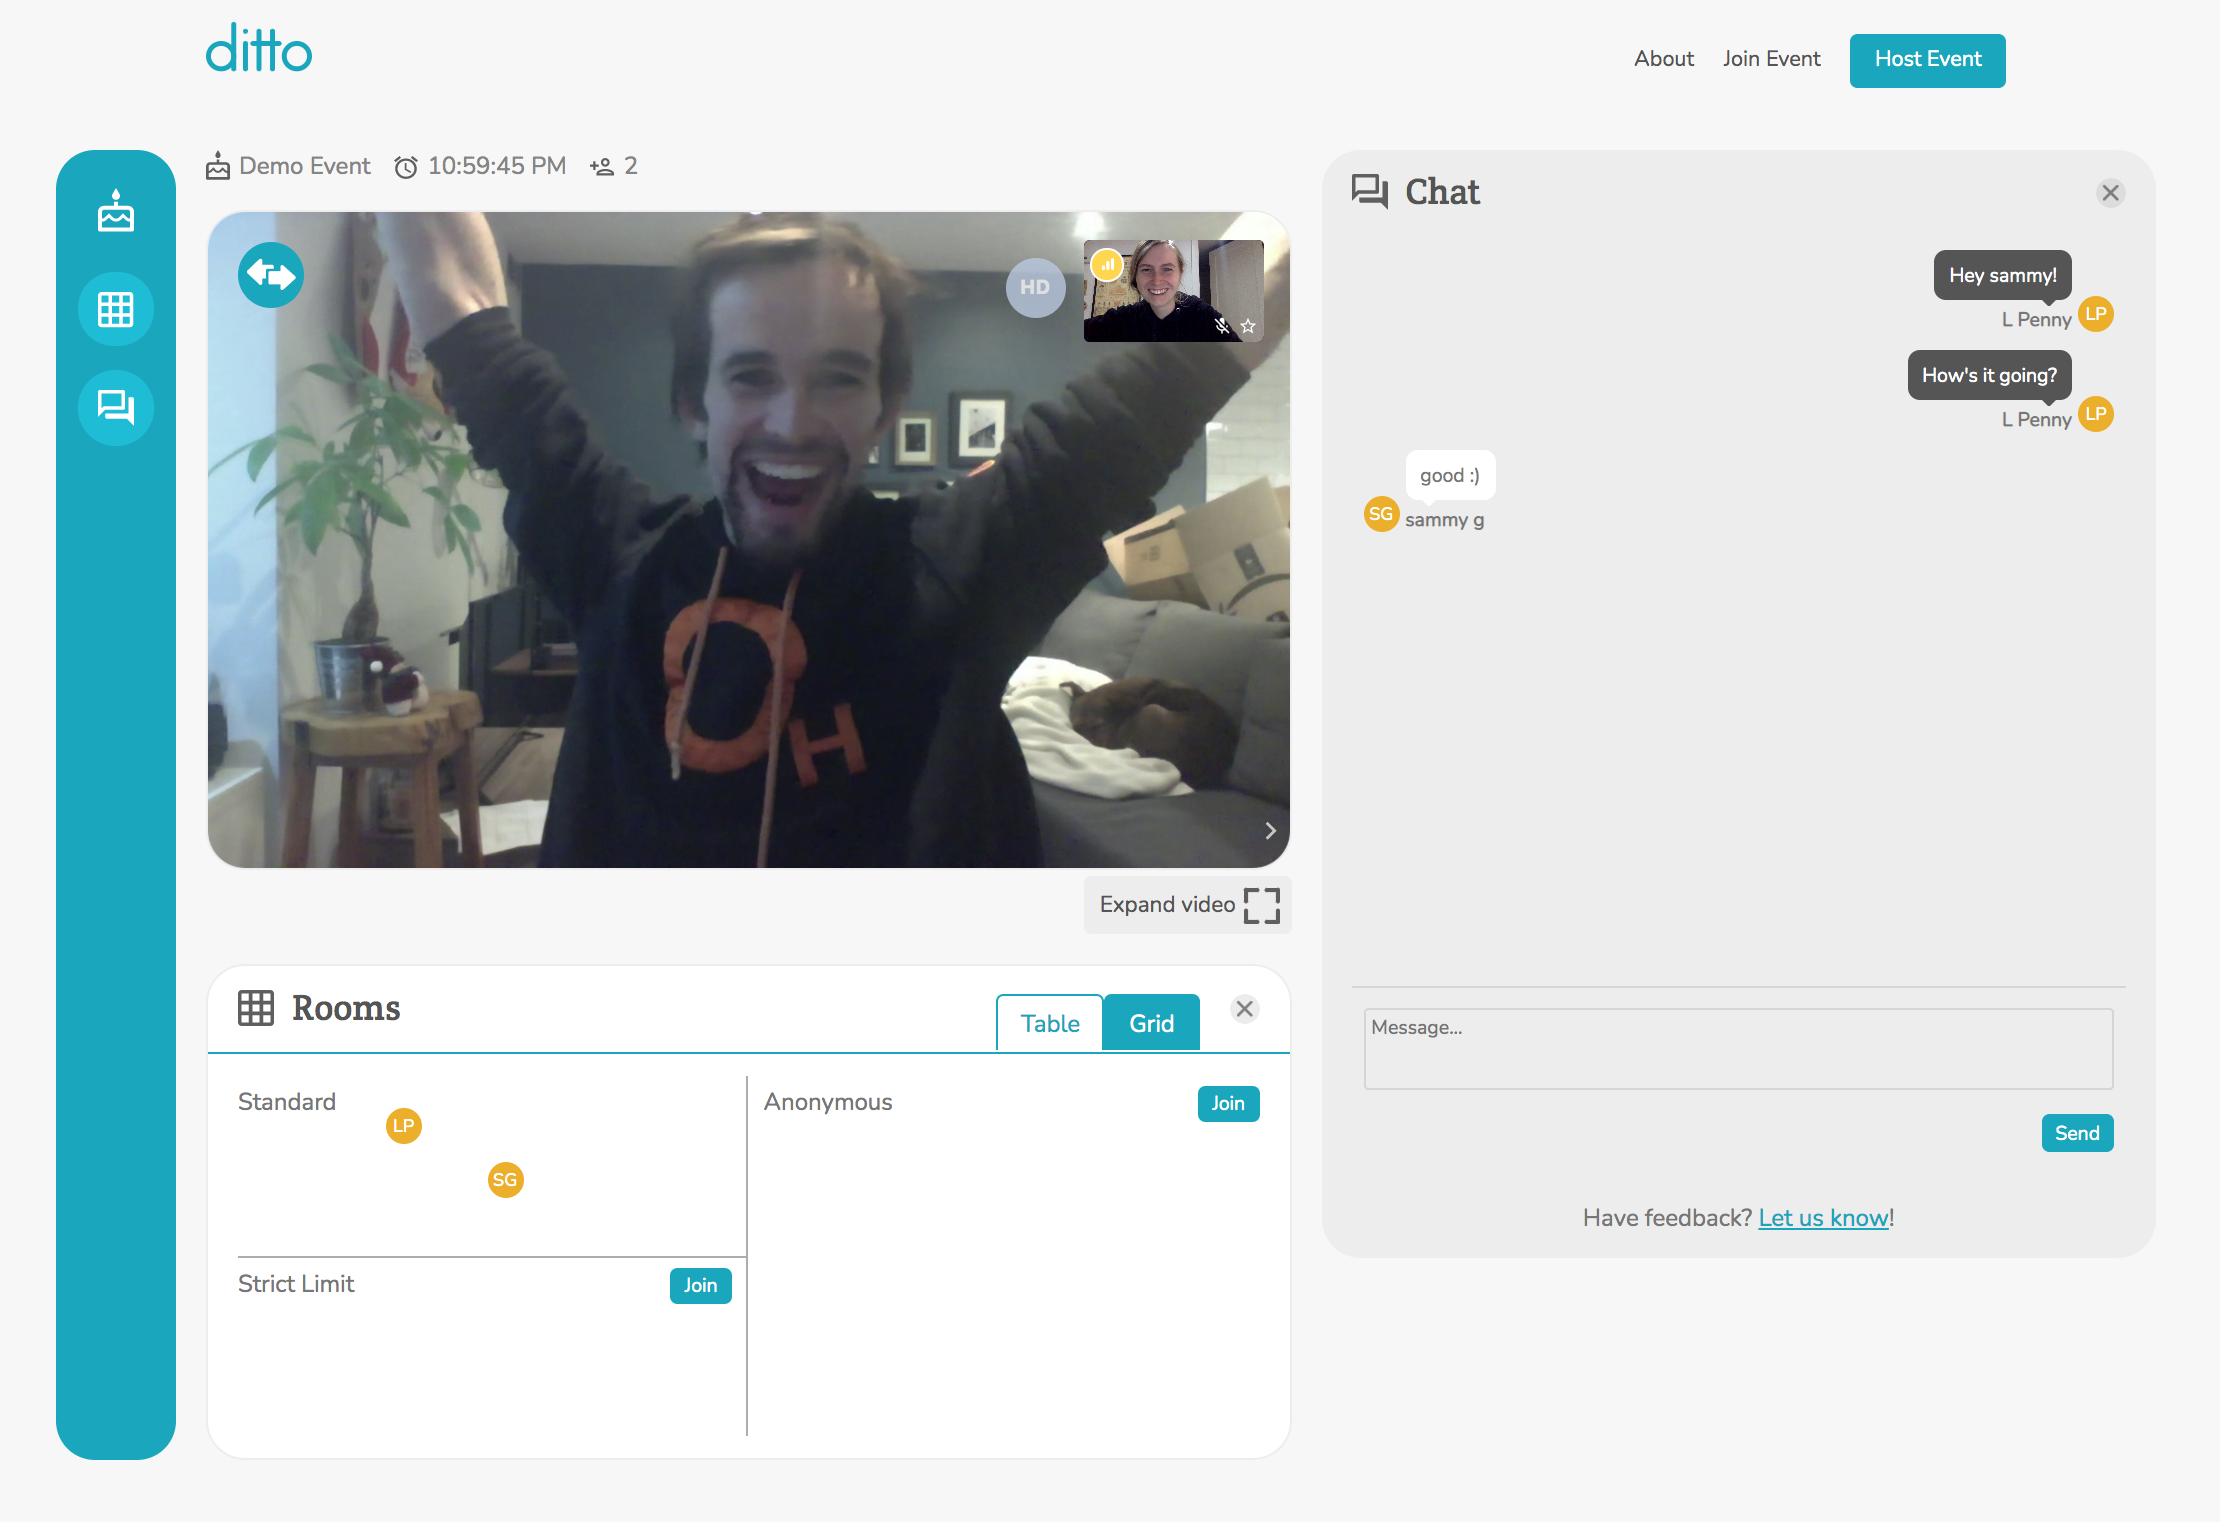
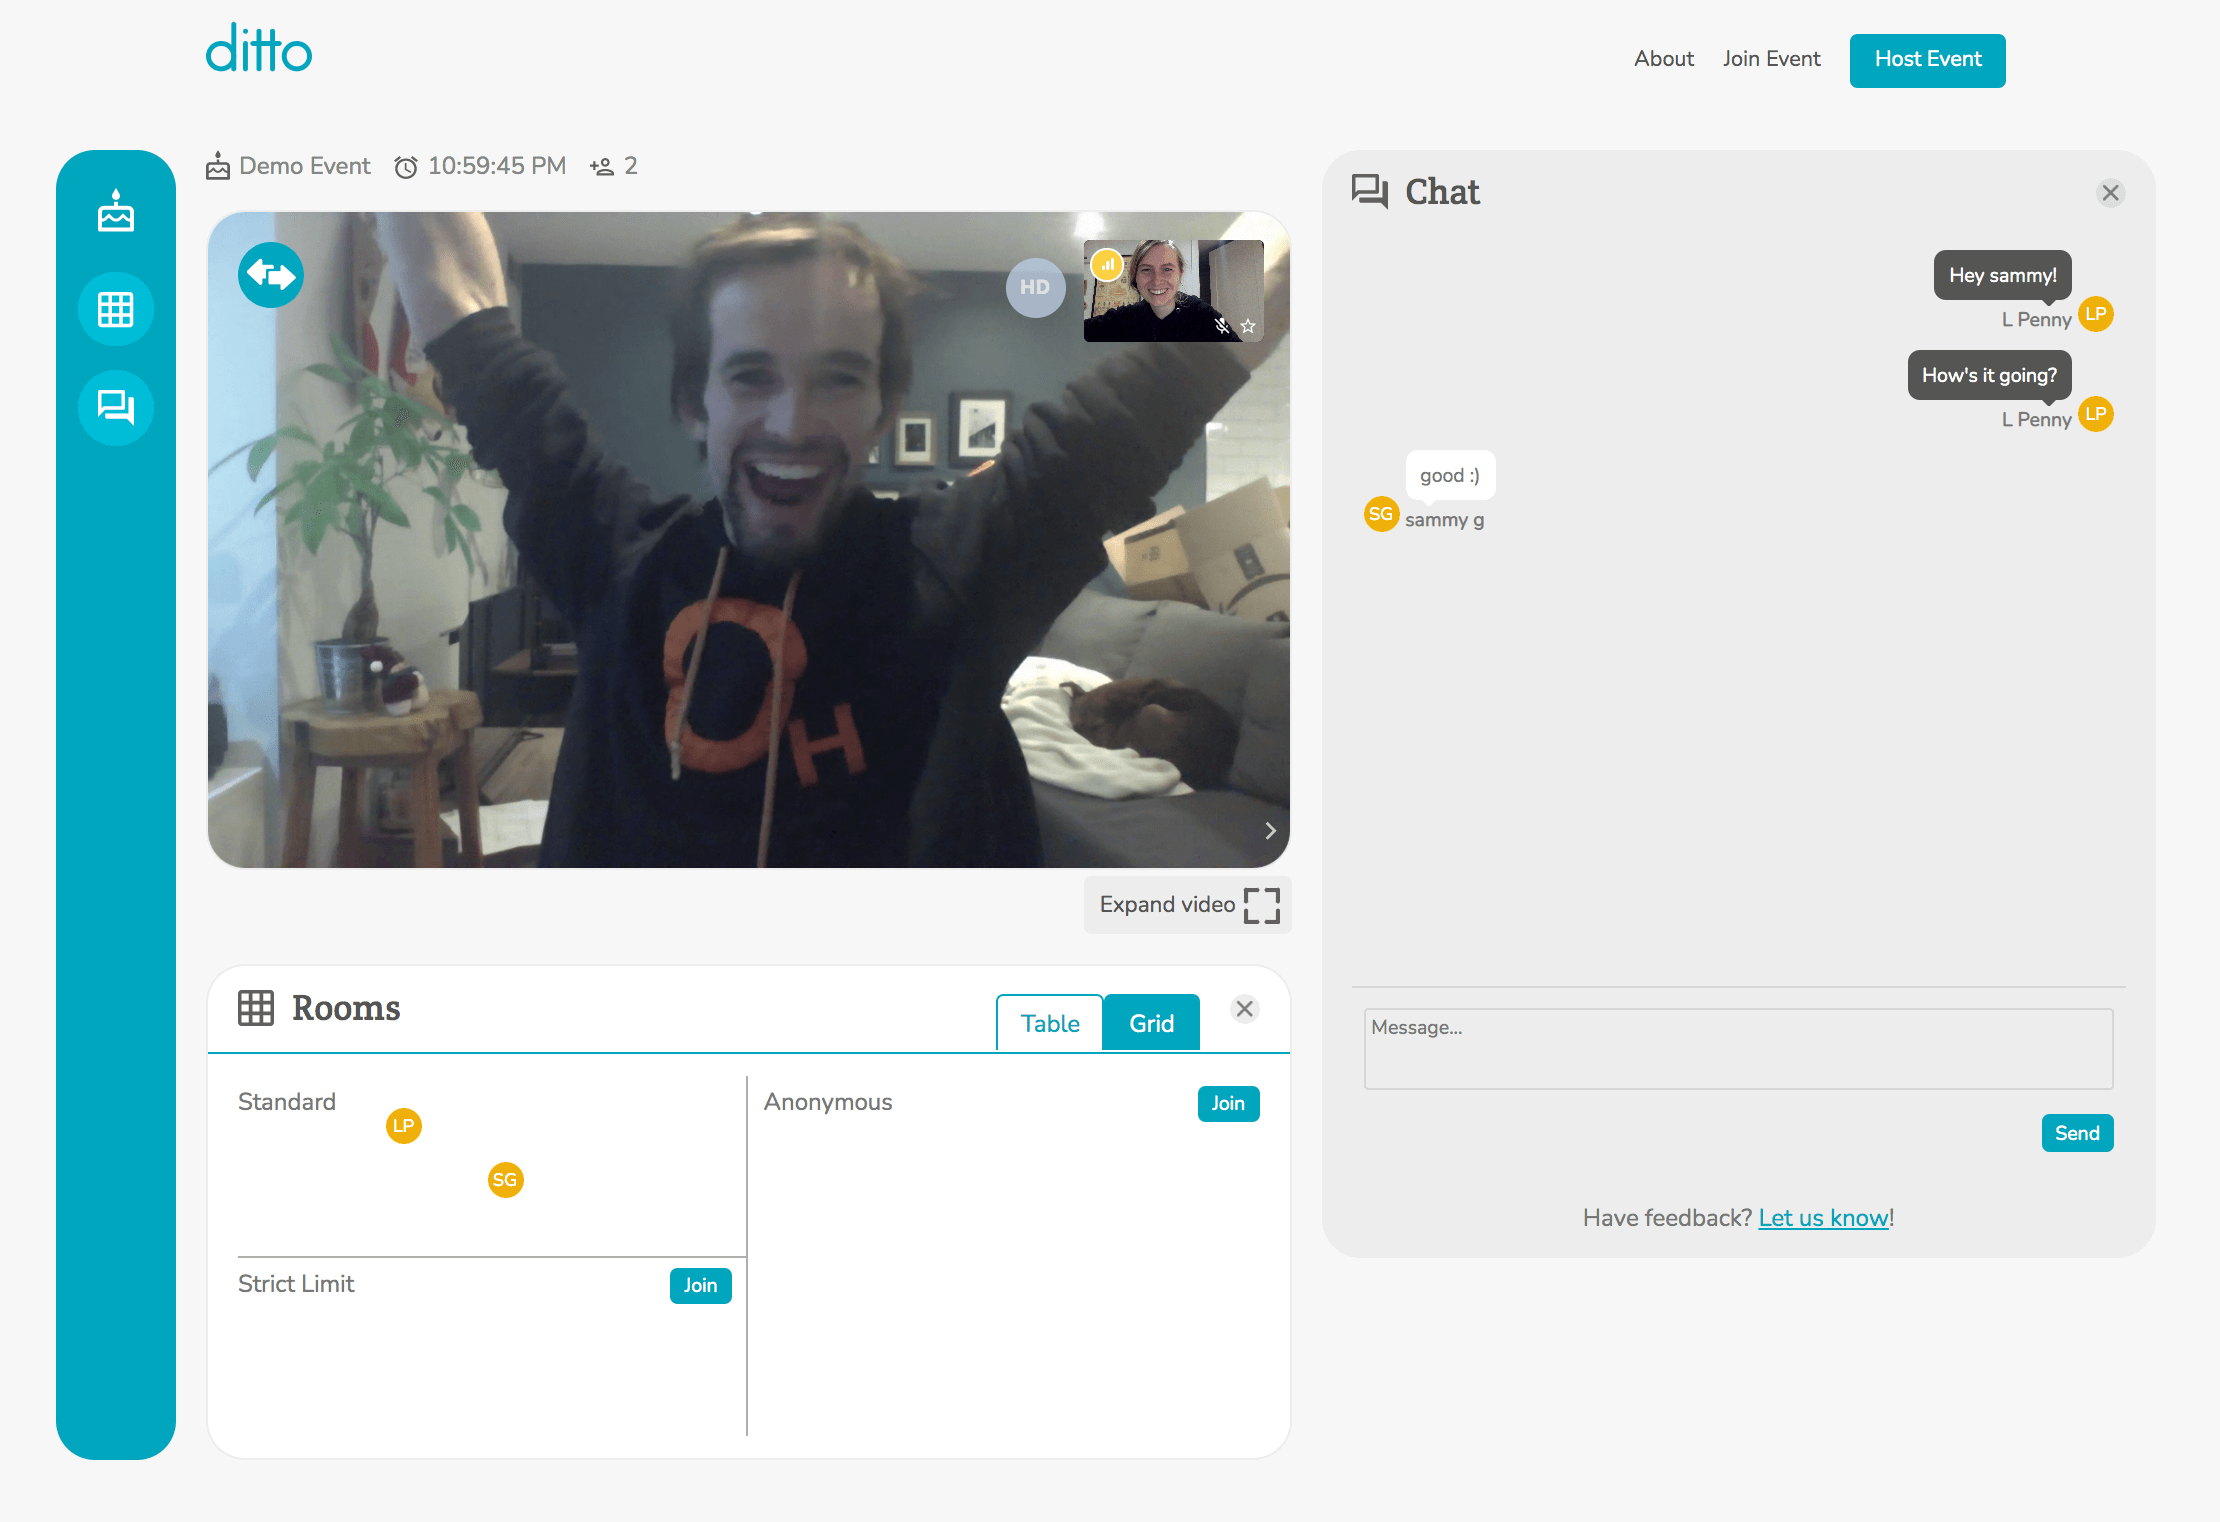
compress ditto images, fix screenshot slideshow

diff --git a/components/recent-projects/recent-projects.vue b/components/recent-projects/recent-projects.vue
@@ -35,25 +35,25 @@
             </div>
           </div>
           <x-modal size="lg" buttonAs="link-alt" name="ditto-modal" label="View app screenshots">
-            <x-carousel as="modal" name="ditto-carousel" height="">
+            <x-carousel as="modal" name="ditto-carousel">
               <x-carousel-item>
-                <img src="~@/assets/images/projects/ditto.png" alt="Screenshot of a demo for the ditto video conferencing web app">
+                <img srcset="~@/assets/images/projects/ditto1@2x.png 2x, ~@/assets/images/projects/ditto1.png 1x" src="~@/assets/images/projects/ditto1.png" class="ditto-1" alt="Screenshot of a demo for the ditto video conferencing web app">
                 <p class="margin-top--20">View of a ditto event dashboard. Open and close ditto UI elements to suit your preference.</p>
               </x-carousel-item>
               <x-carousel-item>
-                <img src="~@/assets/images/projects/ditto2.png" style="max-width: 550px;" alt="Screenshot of a demo for the ditto video conferencing web app">
+                <img srcset="~@/assets/images/projects/ditto2@2x.png 2x, ~@/assets/images/projects/ditto2.png 1x" src="~@/assets/images/projects/ditto2.png" class="ditto-2" alt="">
                 <p class="margin-top--20">See who's in a video room before joining. You can also spy on those waiting in the "lobby". 👀</p>
               </x-carousel-item>
               <x-carousel-item>
-                <img src="~@/assets/images/projects/ditto3.png" style="max-width: 550px;" alt="Screenshot of a demo for the ditto video conferencing web app">
+                <img srcset="~@/assets/images/projects/ditto3@2x.png 2x, ~@/assets/images/projects/ditto3.png 1x" src="~@/assets/images/projects/ditto3.png" class="ditto-3" alt="">
                 <p class="margin-top--20">Get a description of the event and the purpose of each room.</p>
               </x-carousel-item>
               <x-carousel-item>
-                <img src="~@/assets/images/projects/ditto4.png" alt="Screenshot of a demo for the ditto video conferencing web app">
+                <img srcset="~@/assets/images/projects/ditto4@2x.png 2x, ~@/assets/images/projects/ditto4.png 1x" src="~@/assets/images/projects/ditto4.png" class="ditto-4" alt="">
                 <p class="margin-top--20">When creating an event, add details and features to the rooms to make it more custom. Or use the default settings for a quick set-up.</p>
               </x-carousel-item>
               <x-carousel-item>
-                <img src="~@/assets/images/projects/ditto5.png" style="max-width: 550px;" alt="Screenshot of a demo for the ditto video conferencing web app">
+                <img srcset="~@/assets/images/projects/ditto5@2x.png 2x, ~@/assets/images/projects/ditto5.png 1x" src="~@/assets/images/projects/ditto5.png" class="ditto-5" alt="">
                 <p class="margin-top--20">Upon creating the event, copy the share details to send to your guests.</p>
               </x-carousel-item>
             </x-carousel>
@@ -75,3 +75,20 @@ export default {
   }
 }
 </script>
+
+<style lang="stylus" scoped>
+
+.item
+  img.ditto-1
+    max-width: 850px
+    width: 100%
+
+  img.ditto-2, img.ditto-3, img.ditto-5
+    max-width: 650px
+    width: 100%
+
+  img.ditto-4
+    max-width: 730px
+    width: 100%
+
+</style>

diff --git a/pages/contact.vue b/pages/contact.vue
@@ -4,7 +4,7 @@
       <x-content class="text-align--center">
         <x-icon as="secondary" icon="comments" class="margin--center margin-bottom--30"/>
         <h1>Let's chat</h1>
-        <p>Communication welcome via <x-link href="https://www.linkedin.com/in/laura-penstone-073431111/" target="_blank">LinkedIn</x-link> or message form below</p>
+        <p>Communication welcome via <x-link href="https://www.linkedin.com/in/laura-penstone-073431111/" target="_blank">LinkedIn</x-link> or message form below.</p>
       </x-content>
     </x-section>
     <x-section>
@@ -18,7 +18,7 @@
           </div>
           <x-card v-else as="shadow" size="lg">
             <h2 class="heading--title margin-bottom--20">Send a message</h2>
-            <x-form as="submit" name="contact-2020" method="POST" netlify action="/contact/?notice=success">
+            <x-form as="submit" name="contact" method="POST" netlify action="/contact/?notice=success">
               <x-form-input as="text" name="name" label="Name" required/>
               <x-form-input as="email" name="email" label="Email" required/>
               <x-form-group as="select" name="subject" label="Subject" required>

diff --git a/pages/index.vue b/pages/index.vue
@@ -132,7 +132,7 @@
         </x-group>
       </x-content>
     </x-section>
-    <x-section id="wave" as="secondary-light">
+    <x-section class="bg-wave-top" as="secondary-light">
       <x-icon as="secondary" icon="code" class="margin--center margin-bottom--20"/>
       <h2 class="heading--accent margin-bottom--60 text-align--center">Recent Projects</h2>
       <x-content>
@@ -157,20 +157,6 @@ export default {
 </script>
 
 <style lang="stylus" scoped>
-
-#wave
-  background-image: url('~@/assets/images/svg/wave-top.svg')
-  background-repeat: no-repeat
-  background-size: contain
-  background-position: 0px -3px
-  padding-top: 120px
-
-  @media(max-width: 991px)
-    padding-top: 90px
-
-.mode--dark
-  #wave
-    background-image: url('~@/assets/images/svg/wave-top-dm.svg')
 
 >>>#hero
   padding-top: 0

diff --git a/pages/resume.vue b/pages/resume.vue
@@ -7,7 +7,7 @@
         <h2 class="heading--title margin-bottom--30">Frontend Developer</h2>
         <p>3+ years of industry experience writing scalable, tested, component-based code.</p>
         <P>Developing beautiful UI's that are accessibile to all audiences.</p>
-        <x-link as="standard" class="margin-top--20" href="https://linkedin.com">LinkedIn</x-link>
+        <x-link as="standard" href="https://www.linkedin.com/in/laura-penstone-073431111/" target="_blank" class="margin-top--20">LinkedIn</x-link>
       </x-content>
     </x-section>
     <x-section>
